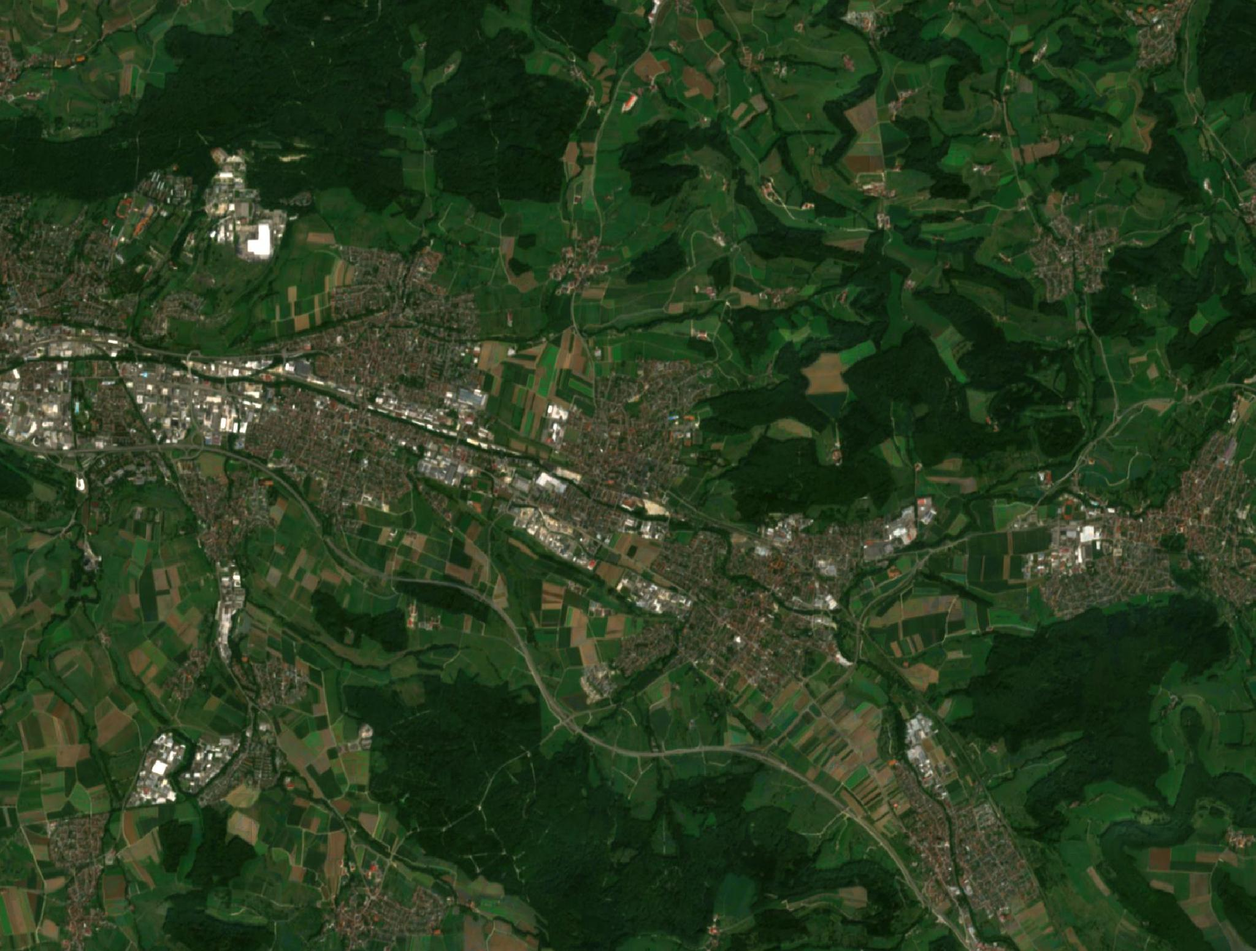
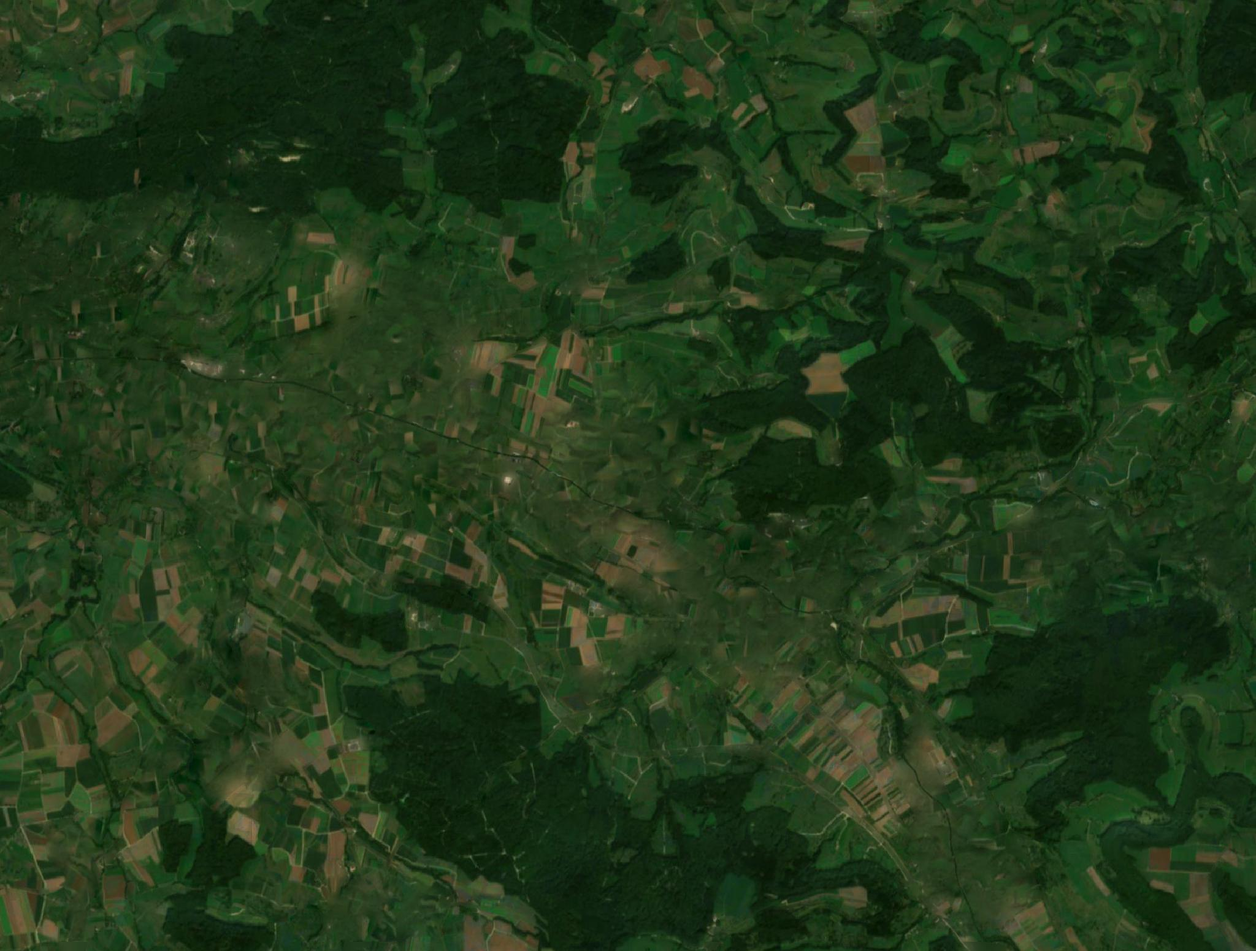
Mundi II: middle levels for South-West Germany and Brittany, people painted out everywhere
Middle levels like the Aegean for the new spots: South-West Germany (7.5-10.6 E, 47.5-49.3 N:
Black Forest, Swabian Alb, Lake Constance) and Brittany (5.2-1.0 W, 47.2-48.95 N): Sentinel-2 at
about 55 m, heights at about 225 m, lakes and rivers from Natural Earth, the sea from OSM's land
polygons; mixed with the world over 15 km, with the spots over 1.5 km. They and the spots load
only when you come near. The places menu offers both.
What people made is painted out of every picture now, as on Rhodes: in the spots exactly by OSM
(buildings, built-up land, roads and railways at their width, car parks, quarries), in the middle
levels and the Aegean by the standard OSM map at zoom 10; the holes are quilted with real fields,
hedges and woods from nearby.

Claude-Session: https://claude.ai/code/session_015y9JAWLouqFfDLSFkX3oNa

diff --git a/public/crusaders/welt2/index.html b/public/crusaders/welt2/index.html
@@ -349,13 +349,21 @@ const COMMON = `
   float useRhodes(vec2 p) { return lod(p) < 0.5 ? 1.0 : 0.0; }
   // close spots (Stuttgart, Salach, Trégastel): inside their box they draw everything, land and water; the last
   // 1.5 km of the box is mixed with the world pixel by pixel
-  uniform vec4 uSB[3];
+  uniform vec4 uSB[3], uMB[2];
   float spotHere(vec2 p) {
     if (uWorldOn < 0.5) return 0.0;
     float r = fract(52.9829189 * fract(dot(gl_FragCoord.xy, vec2(0.06711056, 0.00583715))));
     for (int i = 0; i < 3; i++) if (uSB[i].z > 0.0 && r < smoothstep(0.0, 1.5, edgeIn(p, uSB[i]))) return 1.0;
     return 0.0;
   }
+  // the middle level of these spots (South-West Germany, Brittany): mixed with the world over its last 15 km
+  float midHere(vec2 p) {
+    if (uWorldOn < 0.5) return 0.0;
+    float r = fract(52.9829189 * fract(dot(gl_FragCoord.xy, vec2(0.06711056, 0.00583715))));
+    for (int i = 0; i < 2; i++) if (uMB[i].z > 0.0 && r < smoothstep(0.0, 15.0, edgeIn(p, uMB[i]))) return 1.0;
+    return 0.0;
+  }
+  float anySpot(vec2 p) { return max(spotHere(p), midHere(p)); }
   vec2 regUv(vec2 p) { return vec2((p.x - uRBox.x) / uRBox.z, 1.0 - (p.y - uRBox.y) / uRBox.w); }
   float regH(vec2 p) { float v = texture2D(uRegH, regUv(p)).r * 255.0; return v > 128.0 ? pow((v - 128.0) / 127.0, 2.0) * 7000.0 : -pow((128.0 - v) / 128.0, 2.0) * 11000.0; }
   float worldH(vec2 p) { float v = texture2D(uWorld, worldUv(p)).r * 255.0; return v > 128.0 ? pow((v - 128.0) / 127.0, 2.0) * 7000.0 : -pow((128.0 - v) / 128.0, 2.0) * 11000.0; }
@@ -526,7 +534,7 @@ const U = {
   uSun: { value: new THREE.Vector3(0, 1, 0) }, uSunCol: { value: new THREE.Color(1, 1, 1) }, uZen: { value: new THREE.Color() }, uHor: { value: new THREE.Color() }, uCam: { value: new THREE.Vector3() },
   uTime: { value: 0 }, uHaze: { value: 0.006 }, uCloudCov: { value: 0.38 }, uCloudH: { value: 4.8 }, uClouds: { value: 1 }, uSea: { value: 1 },
   uMask: { value: null }, uRelief: { value: null }, uNormal: { value: null }, uCloud: { value: null }, uDist: { value: null }, uSat: { value: null }, uGeo: { value: null }, uShadow: { value: null },
-  uLife: { value: 1 }, uWEx: { value: 1 }, uWorldOn: { value: 1 }, uSB: { value: [new THREE.Vector4(), new THREE.Vector4(), new THREE.Vector4()] }, uRegOn: { value: 0 }, uRBox: { value: new THREE.Vector4() }, uRegH: { value: null }, uRegM: { value: null }, uRegL: { value: null }, uRegN: { value: null }, uRegSat: { value: null }, uWorld: { value: null }, uWorldN: { value: null }, uWorldSat: { value: null }, uVeg: { value: 0 }, uHeat: { value: 0 }, uGrow: { value: 1 }, uLevel: { value: 0 }, uShadowK: { value: 1 }, uNear: { value: 0.1 },
+  uLife: { value: 1 }, uWEx: { value: 1 }, uWorldOn: { value: 1 }, uSB: { value: [new THREE.Vector4(), new THREE.Vector4(), new THREE.Vector4()] }, uMB: { value: [new THREE.Vector4(), new THREE.Vector4()] }, uRegOn: { value: 0 }, uRBox: { value: new THREE.Vector4() }, uRegH: { value: null }, uRegM: { value: null }, uRegL: { value: null }, uRegN: { value: null }, uRegSat: { value: null }, uWorld: { value: null }, uWorldN: { value: null }, uWorldSat: { value: null }, uVeg: { value: 0 }, uHeat: { value: 0 }, uGrow: { value: 1 }, uLevel: { value: 0 }, uShadowK: { value: 1 }, uNear: { value: 0.1 },
   uBox: { value: new THREE.Vector4(W0, D0, WX, DZ) }, uCloudOff: { value: new THREE.Vector2() },
 };
 
@@ -688,7 +696,7 @@ function regionMesh() {
   region = new THREE.Mesh(g, shader(`
     uniform float uSea;
     void main() {
-      if (abs(lod(vP.xz) - 1.0) > 0.5 || spotHere(vP.xz) > 0.5) discard;
+      if (abs(lod(vP.xz) - 1.0) > 0.5 || anySpot(vP.xz) > 0.5) discard;
       vec2 ru = regUv(vP.xz); vec4 rm = texture2D(uRegM, ru); float h = regH(vP.xz);
       vec2 nn = texture2D(uRegN, ru).rg * 2.0 - 1.0; vec3 N = normalize(vec3(nn.x, sqrt(max(0.0, 1.0 - dot(nn, nn))), nn.y));
       float diff = max(dot(N, uSun), 0.0), sh = cloudShadow(vP); vec3 col;
@@ -718,12 +726,14 @@ const SPOTS = [
   { id: "salach", name: "Salach im Filstal", sub: "Fils, Lauter und der Hohenstaufen", look: [9.74, 48.69, 13, 0.75] },
   { id: "tregastel", name: "Trégastel", sub: "Grève Blanche bis Île Renote", look: [-3.505, 48.826, 6, 0.8] },
 ];
+const MIDS = [{ id: "suedwest", dir: "mitte", lake: 3000, look: [9.05, 48.4] }, { id: "bretagne", dir: "mitte", lake: 3000, look: [-3.1, 48.07] }];
 const spotsOn = [];
 async function loadSpot(sp, slot) {
-  const meta = await (await fetch(`data/orte/${sp.id}.json`)).json(), [lonc, latc] = meta.center, k = KX / Math.cos((latc * Math.PI) / 180);
+  const dir = sp.dir || "orte", mid = dir === "mitte";
+  const meta = await (await fetch(`data/${dir}/${sp.id}.json`)).json(), [lonc, latc] = meta.center, k = KX / Math.cos((latc * Math.PI) / 180);
   const [cx, cz] = G(lonc, latc), w = meta.km[0] * k, h = meta.km[1] * k;
   Object.assign(sp, { box: [cx - w / 2, cz - h / 2, w, h], k });
-  const [hi, wi] = await Promise.all([loadImage(`data/orte/${sp.id}-hoehe.png`), loadImage(`data/orte/${sp.id}-wasser.png`)]);
+  const [hi, wi] = await Promise.all([loadImage(`data/${dir}/${sp.id}-hoehe.png`), loadImage(`data/${dir}/${sp.id}-wasser.png`)]);
   const c = document.createElement("canvas"); c.width = hi.width; c.height = hi.height; const x = c.getContext("2d"); x.drawImage(hi, 0, 0);
   const d = x.getImageData(0, 0, hi.width, hi.height).data, HW_ = hi.width, HH_ = hi.height, HM_ = new Float32Array(HW_ * HH_);
   for (let i = 0; i < HM_.length; i++) HM_[i] = d[i * 4] * 256 + d[i * 4 + 1] - 10000;
@@ -737,7 +747,7 @@ async function loadSpot(sp, slot) {
   }
   nx.putImageData(ni, 0, 0);
   const tex = (img) => { const t = new THREE.Texture(img); t.needsUpdate = true; t.generateMipmaps = false; t.minFilter = t.magFilter = THREE.LinearFilter; return t; };
-  const sat = await new THREE.TextureLoader().loadAsync(`data/orte/${sp.id}.jpg`); sat.anisotropy = 4;
+  const sat = await new THREE.TextureLoader().loadAsync(`data/${dir}/${sp.id}.jpg`); sat.anisotropy = 4;
   // the mesh: 2 heights per vertex step, water lying flat as the heights say
   const NX = Math.min(HW_, 300), NZ = Math.round(NX * HH_ / HW_), pos = new Float32Array(NX * NZ * 3), idx = new Uint32Array((NX - 1) * (NZ - 1) * 6); let n = 0;
   for (let j = 0; j < NZ; j++) for (let i = 0; i < NX; i++) {
@@ -748,9 +758,9 @@ async function loadSpot(sp, slot) {
   const g = new THREE.BufferGeometry(); g.setAttribute("position", new THREE.BufferAttribute(pos, 3)); g.setIndex(new THREE.BufferAttribute(idx, 1));
   g.setAttribute("uv", new THREE.BufferAttribute(new Float32Array(NX * NZ * 2), 2));
   const m = shader(`
-    uniform vec4 uBoxS; uniform sampler2D uSSat, uSN, uSW;
+    uniform vec4 uBoxS; uniform sampler2D uSSat, uSN, uSW; uniform float uMid, uLakeR;
     void main() {
-      if (spotHere(vP.xz) < 0.5 && uWorldOn > 0.5) discard;
+      if (uWorldOn > 0.5 && (uMid > 0.5 ? (midHere(vP.xz) < 0.5 || spotHere(vP.xz) > 0.5) : spotHere(vP.xz) < 0.5)) discard;
       vec2 su = vec2((vP.x - uBoxS.x) / uBoxS.z, 1.0 - (vP.z - uBoxS.y) / uBoxS.w);
       if (su.x < 0.0 || su.y < 0.0 || su.x > 1.0 || su.y > 1.0) discard;
       vec3 N = unpackN(texture2D(uSN, su).rg), V = normalize(uCam - vP);
@@ -758,7 +768,7 @@ async function loadSpot(sp, slot) {
       vec4 wt = texture2D(uSW, su); vec3 s0 = texture2D(uSSat, su).rgb, sat = pow(s0, vec3(2.2)) * 1.25, col;
       if (wt.r > 0.5) {
         // water: the sea by its shelf, a lake or a river by how far its shore is; lakes and rivers are green-brown
-        bool isSea = wt.b > 0.5; float sd = isSea ? wt.g * wt.g * 2000.0 : pow(wt.g / 0.5, 2.0) * 400.0;
+        bool isSea = wt.b > 0.5; float sd = isSea ? wt.g * wt.g * 2000.0 : pow(wt.g / 0.5, 2.0) * uLakeR;
         // a lake here is not clear: humus and algae make it dark, olive to brown-green, its floor gone after a metre or two
         float depth = isSea ? shelfDepth(vP.xz, sd, 0.8) * 1.6 : 30.0 + sd * 0.1;
         col = waterCol(vP, depth, sd, waves(vP.xz, dist / max(V.y, 0.1)), V, sh, 0.0, isSea ? 0.5 : 1.0);
@@ -779,9 +789,9 @@ async function loadSpot(sp, slot) {
       gl_FragColor = vec4(finish(col, vP), 1.0);
       ${TAIL}
     }`, {}, "w.y *= uWEx;");
-  m.uniforms = { ...U, uBoxS: { value: new THREE.Vector4(...sp.box) }, uSSat: { value: sat }, uSN: { value: ctex(nc) }, uSW: { value: tex(wi) } };
+  m.uniforms = { ...U, uBoxS: { value: new THREE.Vector4(...sp.box) }, uSSat: { value: sat }, uSN: { value: ctex(nc) }, uSW: { value: tex(wi) }, uMid: { value: mid ? 1 : 0 }, uLakeR: { value: sp.lake || 400 } };
   sp.mesh = new THREE.Mesh(g, m); sp.mesh.frustumCulled = false; sp.mesh.visible = !gen; scene.add(sp.mesh);
-  U.uSB.value[slot].set(...sp.box); spotsOn.push(sp);
+  (mid ? U.uMB : U.uSB).value[slot].set(...sp.box); spotsOn.push(sp); if (mid) spotsOn.sort((a, b) => (a.dir === "mitte") - (b.dir === "mitte"));
 }
 function spotHAt(sp, u, v) {
   const gx = clamp(u * sp.HW - 0.5, 0, sp.HW - 1.001), gz = clamp(v * sp.HH - 0.5, 0, sp.HH - 1.001), i = Math.floor(gx), j = Math.floor(gz), fx = gx - i, fz = gz - j, H_ = (a, b) => sp.HM[b * sp.HW + a];
@@ -801,7 +811,7 @@ function worldMesh() {
   world = new THREE.Mesh(g, shader(`
     uniform float uSea; uniform sampler2D uSat;
     void main() {
-      if (lod(vP.xz) < 1.5 || spotHere(vP.xz) > 0.5) discard;      // Rhodes, the Aegean and the spots are drawn by their own, finer models
+      if (lod(vP.xz) < 1.5 || anySpot(vP.xz) > 0.5) discard;      // Rhodes, the Aegean and the spots are drawn by their own, finer models
       vec2 wu = worldUv(vP.xz); float h = worldH(vP.xz);
       vec2 nn = texture2D(uWorldN, wu).rg * 2.0 - 1.0; vec3 N = normalize(vec3(nn.x, sqrt(max(0.0, 1.0 - dot(nn, nn))), nn.y));
       // the raised shade is for the map from afar; close by, the coarse cells would show as bumps
@@ -856,7 +866,7 @@ function seaSurface() {
   sea = new THREE.Mesh(seaRings(40000), shader(`
     uniform sampler2D uSat;
     void main() {
-      if (spotHere(vP.xz) > 0.5) discard;
+      if (anySpot(vP.xz) > 0.5) discard;
       vec2 uv = boxUv(vP.xz); float lv = lod(vP.xz), inside = lv < 0.5 ? 1.0 : 0.0;
       vec4 mk = inside > 0.5 ? texture2D(uMask, uv) : vec4(0.0);
       float sd, d, rcliff = 0.45; gUv = uv; gIn = inside;
@@ -1021,7 +1031,7 @@ function showLayer() {
 $("#bSchicht").onclick = () => { layer = (layer + 1) % LAYERS.length; try { localStorage.setItem("mundi2-schicht", LAYERS[layer][0]); } catch (e) {} showLayer(); };
 $("#bGenesis").onclick = () => genesis();
 // places: a flight there, out high enough to see both ends and down again
-const PLACES = [["Rhodos", "die Insel", [28.0, 36.25, 95, 0.75]], ["Ostägäis", "Dodekanes und Karien", [27.6, 36.7, 520, 0.95]], ...SPOTS.map((sp) => [sp.name, sp.sub, sp.look]), ["Welt", "die ganze Karte", [15, 30, 26000, 1.3]]];
+const PLACES = [["Rhodos", "die Insel", [28.0, 36.25, 95, 0.75]], ["Ostägäis", "Dodekanes und Karien", [27.6, 36.7, 520, 0.95]], ["Südwestdeutschland", "Schwarzwald, Alb, Bodensee", [9.0, 48.4, 260, 0.95]], ...SPOTS.map((sp) => [sp.name, sp.sub, sp.look]), ["Bretagne", "die Côte de Granit Rose und mehr", [-3.1, 48.1, 340, 0.95]], ["Welt", "die ganze Karte", [15, 30, 26000, 1.3]]];
 $("#bOrte").onclick = () => { const o = $("#orte"); o.hidden = !o.hidden; };
 $("#orte").innerHTML = PLACES.map((p, i) => `<button type="button" data-i="${i}">${p[0]}<small>${p[1]}</small></button>`).join("");
 $("#orte").querySelectorAll("button").forEach((b) => (b.onclick = () => { $("#orte").hidden = true; const [, , [lon, lat, dist, pitch]] = PLACES[+b.dataset.i]; const [x, z] = G(lon, lat); flyTo(x, z, dist, pitch); }));
@@ -1135,7 +1145,15 @@ function loop(now) {
   U.uGeo.value = geoTex; U.uShadow.value = shadowTex;
   terrain(); cutSides(); worldMesh(); seaSurface(); cloudLayer(); light(); weather();
   loadRegion();      // the middle level comes a moment later; until then the world stands in
-  SPOTS.forEach((sp, i) => loadSpot(sp, i).catch((e) => console.warn("Ort", sp.id, e)));
+  // spots and middle levels load only when you come near (within a few times their size), so Rhodes stays light
+  const near = [...SPOTS.map((sp, i) => [sp, i, sp.look]), ...MIDS.map((sp, i) => [sp, i, sp.look])];
+  setInterval(() => {
+    for (const it of near) {
+      const [sp, i, [lon, lat]] = it; if (sp.loading) continue;
+      const [x, z] = G(lon, lat), d = Math.hypot(cam.x - x, cam.z - z);
+      if (d < Math.max(cam.dist * 1.5, 50) + (sp.dir ? 600 : 80)) { sp.loading = true; loadSpot(sp, i).catch((e) => console.warn("Ort", sp.id, e)); }
+    }
+  }, 700);
   if (q.get("ziel")) { const [lon, lat, dist, yaw, pitch] = q.get("ziel").split(",").map(Number); [cam.x, cam.z] = G(lon, lat); if (dist) cam.dist = dist; if (pitch) cam.pitch = pitch; }
   showLayer();
   $("#loading").hidden = true;
